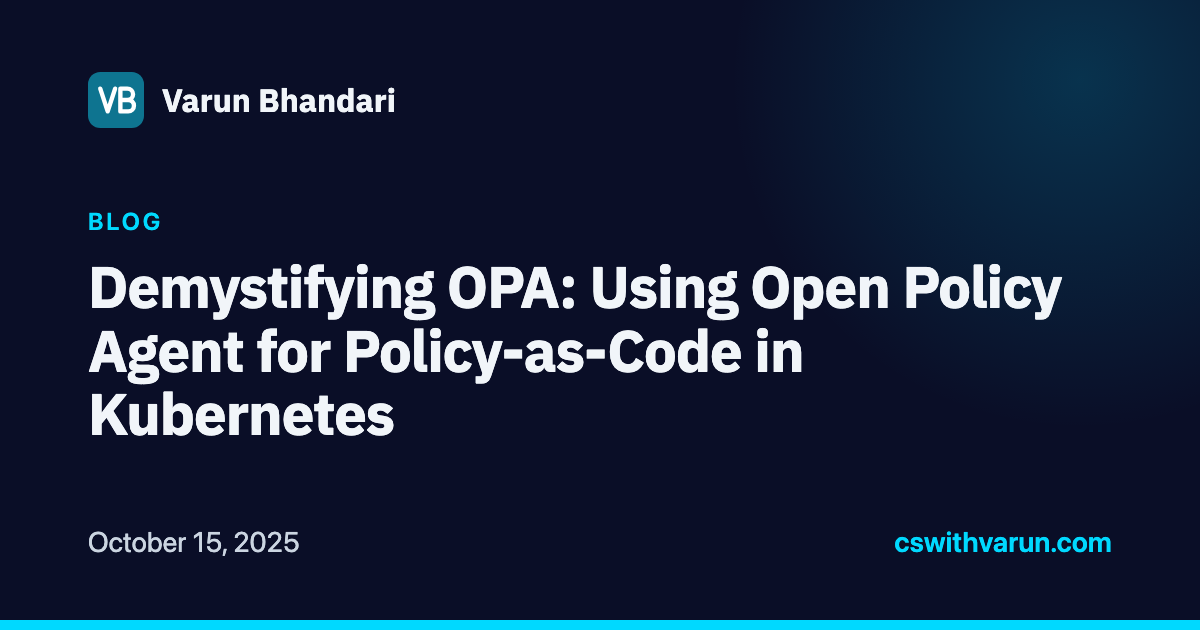
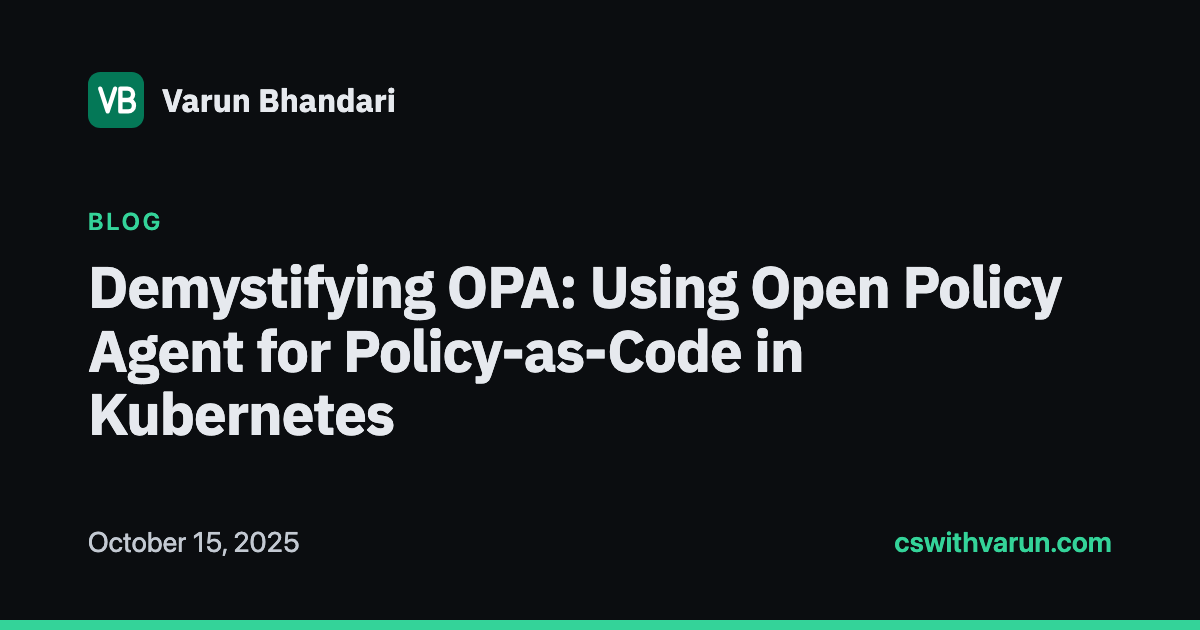
Signal green palette; move colours into palette.css; solid accent; brand images generated from the palette

diff --git a/assets/css/theme.css b/assets/css/theme.css
@@ -1,96 +1,14 @@
 /* ================================
-   Theme tokens
-   Every colour on the site comes from here. Contrast ratios in the
-   comments are WCAG 2 ratios against the background they are used on.
+   Theme: derived tokens and the theme toggle.
+   Colour values live in palette.css.
    ================================ */
-
-:root {
-    color-scheme: light;
-
-    /* Surfaces */
-    --bg-primary: #fff;
-    --bg-secondary: #f8fafc;
-    --bg-tertiary: #f1f5f9;
-    --bg-card: #fff;
-
-    /* Text */
-    --text-primary: #0f172a;     /* 16.3+ */
-    --text-secondary: #475569;   /* 6.9+ */
-    --text-muted: #576579;       /* 5.4 on bg-tertiary */
-
-    /* Accent: used for links and text too, so it must pass 4.5:1 */
-    --color-primary: #0e7490;    /* 5.36 on white, 4.89 on bg-tertiary */
-    --color-secondary: #7c3aed;  /* 5.70 on white */
-    --on-accent: #fff;           /* text on accent fills: 5.36 to 6.25 */
-    --color-danger: #b91c1c;     /* 6.47 on white */
-
-    /* Borders */
-    --border-color: #cbd5e1;     /* decorative card edges */
-    --border-strong: #7c8aa0;    /* form controls: 3.35+ */
-    --focus-ring: var(--color-primary);
-
-    /* Platform badges */
-    --platform-medium: #047857;
-    --platform-substack: #9a3412;
-
-    /* Code */
-    --code-bg: #f1f5f9;
-    --code-inline: #0e7490;
-    --code-comment: #576579;
-    --code-keyword: #6d28d9;
-    --code-string: #047857;
-    --code-number: #b45309;
-    --code-name: #0e7490;
-    --code-builtin: #9d174d;
-
-    /* Shadows */
-    --shadow-sm: 0 1px 2px 0 rgb(0 0 0 / 0.05);
-    --shadow-md: 0 4px 6px -1px rgb(0 0 0 / 0.1);
-    --shadow-lg: 0 10px 15px -3px rgb(0 0 0 / 0.1);
-}
-
-[data-theme='dark'] {
-    color-scheme: dark;
-
-    --bg-primary: #0a0e27;
-    --bg-secondary: #151b3b;
-    --bg-tertiary: #1f2747;
-    --bg-card: #0f172af2;
-
-    --text-primary: #f1f5f9;
-    --text-secondary: #cbd5e1;
-    --text-muted: #94a3b8;       /* 5.69 on bg-tertiary */
-
-    --color-primary: #00d9ff;    /* 11.19 on bg-primary */
-    --color-secondary: #a78bfa;  /* 6.98 on bg-primary */
-    --on-accent: #0a0e27;        /* dark text on the bright gradient: 6.98 to 11.19 */
-    --color-danger: #f87171;
-
-    --border-color: #334155;
-    --border-strong: #6b7a90;    /* 3.84+ */
-
-    --platform-medium: #34d399;
-    --platform-substack: #fb923c;
-
-    --code-bg: #151b3b;
-    --code-inline: #00d9ff;
-    --code-comment: #94a3b8;
-    --code-keyword: #c4b5fd;
-    --code-string: #6ee7b7;
-    --code-number: #fcd34d;
-    --code-name: #67e8f9;
-    --code-builtin: #f9a8d4;
-
-    --shadow-sm: 0 1px 3px rgb(0 0 0 / 0.3);
-    --shadow-md: 0 4px 6px rgb(0 0 0 / 0.3);
-    --shadow-lg: 0 10px 15px rgb(0 0 0 / 0.3);
-}
 
 /* Derived tokens. Declared after both themes so they pick up the active accent. */
 :root,
 [data-theme='dark'] {
-    --gradient-primary: linear-gradient(135deg, var(--color-primary), var(--color-secondary));
-    --gradient-primary-90: linear-gradient(90deg, var(--color-primary), var(--color-secondary));
+    /* Solid accent: the gradient look is gone, but the token names stay so components don't change */
+    --gradient-primary: var(--color-primary);
+    --gradient-primary-90: var(--color-primary);
     --accent-tint: color-mix(in srgb, var(--color-primary) 8%, transparent);
     --accent-tint-strong: color-mix(in srgb, var(--color-primary) 14%, transparent);
     --accent-glow: color-mix(in srgb, var(--color-primary) 30%, transparent);

diff --git a/assets/css/palette.css b/assets/css/palette.css
@@ -1,0 +1,88 @@
+/* ================================
+   Palette: Signal green
+   The only file that changes between colour themes. Everything else derives from
+   these tokens (theme.css), and scripts/generate-brand-assets.mjs reads the accent
+   and ink colours from here for the logo, favicons and share images.
+   Contrast ratios are WCAG 2 ratios against the background they sit on.
+   ================================ */
+
+:root {
+    color-scheme: light;
+
+    /* Surfaces */
+    --bg-primary: #fff;
+    --bg-secondary: #f8fafc;
+    --bg-tertiary: #f1f5f9;
+    --bg-card: #fff;
+
+    /* Text */
+    --text-primary: #0f172a;
+    --text-secondary: #475569;
+    --text-muted: #576579;
+
+    /* Accent (links and text too, so 4.5:1 or better everywhere) */
+    --color-primary: #047857;
+    --color-secondary: #065f46;
+    --on-accent: #fff;
+    --color-danger: #b91c1c;
+
+    /* Borders */
+    --border-color: #cbd5e1;
+    --border-strong: #7c8aa0;
+    --focus-ring: var(--color-primary);
+
+    /* Platform badges */
+    --platform-medium: #047857;
+    --platform-substack: #9a3412;
+
+    /* Code */
+    --code-bg: #f1f5f9;
+    --code-inline: var(--color-primary);
+    --code-comment: #576579;
+    --code-keyword: #6d28d9;
+    --code-string: #047857;
+    --code-number: #b45309;
+    --code-name: #0e7490;
+    --code-builtin: #9d174d;
+
+    --shadow-sm: 0 1px 2px 0 rgb(0 0 0 / 0.05);
+    --shadow-md: 0 4px 6px -1px rgb(0 0 0 / 0.1);
+    --shadow-lg: 0 10px 15px -3px rgb(0 0 0 / 0.1);
+}
+
+[data-theme='dark'] {
+    color-scheme: dark;
+
+    /* Neutral near-black surfaces (no navy tint) */
+    --bg-primary: #0b0d10;
+    --bg-secondary: #12151a;
+    --bg-tertiary: #1a1f26;
+    --bg-card: #111418;
+
+    --text-primary: #e6e9ee;
+    --text-secondary: #c3c9d2;
+    --text-muted: #98a2b0;
+
+    --color-primary: #34d399;
+    --color-secondary: #6ee7b7;
+    --on-accent: #0b0d10;
+    --color-danger: #f87171;
+
+    --border-color: #2a313b;
+    --border-strong: #677385;
+
+    --platform-medium: #34d399;
+    --platform-substack: #fb923c;
+
+    --code-bg: #12151a;
+    --code-comment: #98a2b0;
+    --code-keyword: #c4b5fd;
+    --code-string: #6ee7b7;
+    --code-number: #fcd34d;
+    --code-name: #67e8f9;
+    --code-builtin: #f9a8d4;
+
+    --shadow-sm: 0 1px 3px rgb(0 0 0 / 0.4);
+    --shadow-md: 0 4px 6px rgb(0 0 0 / 0.4);
+    --shadow-lg: 0 10px 15px rgb(0 0 0 / 0.4);
+}

diff --git a/assets/css/main.css b/assets/css/main.css
@@ -5,6 +5,7 @@ layout: null
 ---
 {% include_relative fonts.css %}
 {% include_relative variables.css %}
+{% include_relative palette.css %}
 {% include_relative theme.css %}
 {% include_relative components.css %}
 {% include_relative animations.css %}

diff --git a/assets/css/about-page.css b/assets/css/about-page.css
@@ -189,7 +189,7 @@
 
 .timeline-icon {
     font-size: 1.25rem;
-    color: #0a0e27;
+    color: #0b0d10;
 }
 
 .end-marker .timeline-icon {

diff --git a/_plugins/og_image.rb b/_plugins/og_image.rb
@@ -1,7 +1,7 @@
 # frozen_string_literal: true
 
 # Gives each post its own Open Graph / Twitter card image when one has been
-# generated at assets/images/og/<slug>.png (see scripts/generate-og-images.mjs).
+# generated at assets/images/og/<slug>.png (see scripts/generate-brand-assets.mjs).
 # A post's own `image:` front matter still wins; otherwise the site-wide default applies.
 module OgImage
   class Generator < Jekyll::Generator

diff --git a/README.md b/README.md
@@ -10,7 +10,7 @@ Personal site and blog of Varun Bhandari: a static [Jekyll](https://jekyllrb.com
   `_data/icons.yml` and rendered with `{% include icon.html name="rocket" %}`. No third-party CSS, fonts or scripts.
 - **CSS:** hand-written, no preprocessor. `assets/css/main.css` concatenates the shared partials
   (`variables.css`, `theme.css`, `components.css`, `animations.css`) at build time; each page adds its own
-  stylesheet through `custom_css` in its front matter. All colours are tokens in `theme.css`, with light and dark values.
+  stylesheet through `custom_css` in its front matter. All colour values live in `palette.css` (light and dark); `theme.css` derives the rest.
 - **JavaScript:** vanilla, no bundler. `theme-init.js` runs in `<head>`; `utils.js` must load before the others.
   Pages add their own script through `custom_js` in front matter.
 - **Hosting:** Cloudflare Pages. Response headers (including the CSP) live in `_headers`, short links in `_redirects`.
@@ -57,14 +57,22 @@ Supported types: `NOTE`, `TIP`, `IMPORTANT`, `WARNING`, `CAUTION`.
 ### Share images
 
 Each post gets its own Open Graph image from `assets/images/og/<slug>.png` (wired up by `_plugins/og_image.rb`).
-After adding or retitling a post, regenerate them locally (needs Chrome) and commit the PNGs:
+After adding or retitling a post, regenerate them locally (needs Chrome) and commit the PNGs. The same script rebuilds the logo and favicons from the palette:
 
 ```bash
-node scripts/generate-og-images.mjs
+node scripts/generate-brand-assets.mjs
 ```
 
 To feature a post on the home page, add its slug to `featured_posts` in `_config.yml`. For a post that lives elsewhere, add
 `external_url:` and `platform:` (for example `Medium` or `Substack`); the index links straight to it.
+
+## Colour themes
+
+The palette is one file, `assets/css/palette.css`. Alternative palettes live on `theme/*` branches
+(`theme/signal-green`, `theme/amber`, `theme/oxblood`, `theme/mono`) that differ only in that file and the
+images generated from it. To switch, merge the branch you want. To try your own, edit `palette.css`, run
+`node scripts/generate-brand-assets.mjs` to rebuild the logo, favicons and share images, and check contrast:
+text needs 4.5:1 against its background.
 
 ## Content security policy
 
